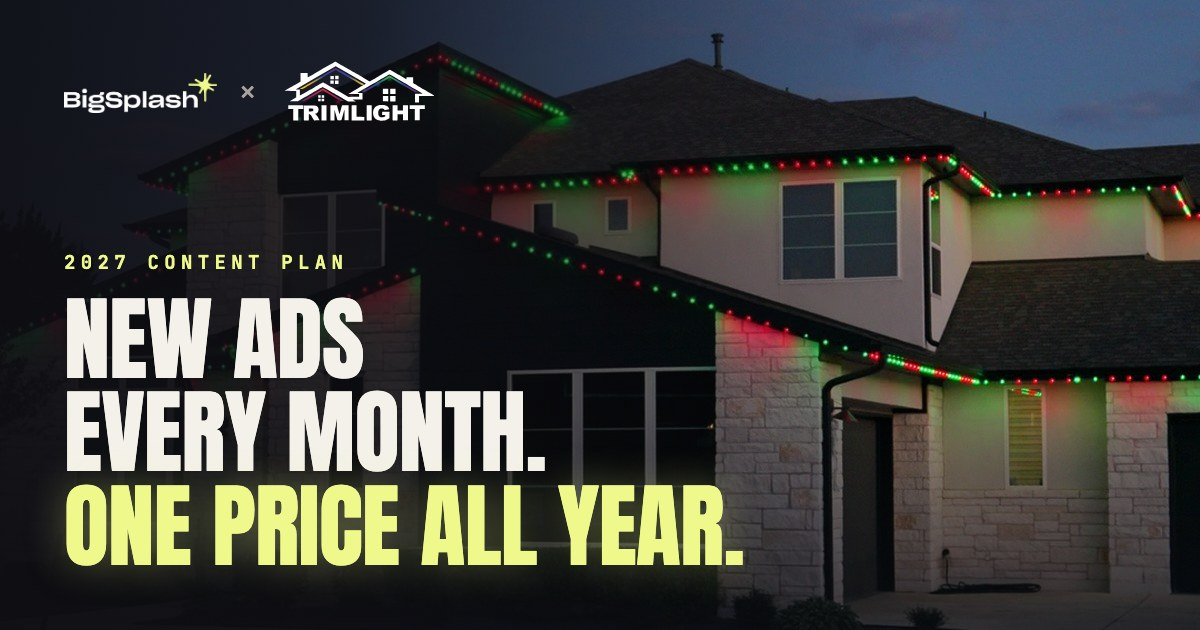
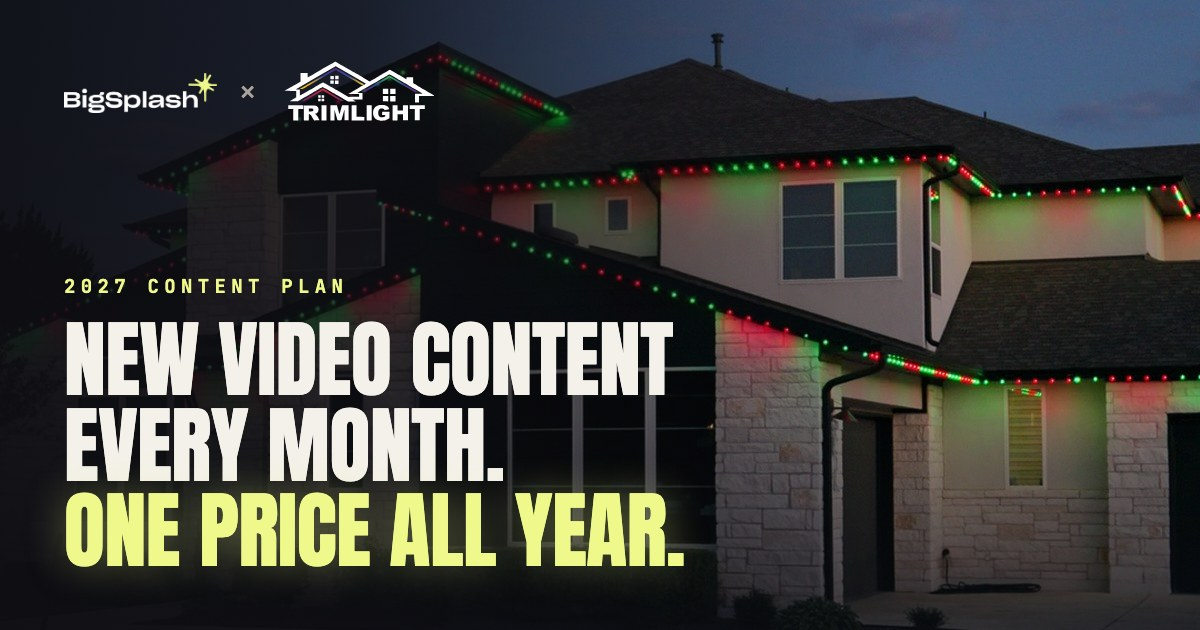
Trimlight page: video content wording instead of ads

Changed region(s): [[0.0308, 0.3921, 0.6167, 0.9048]]

diff --git a/trimlight2027/index.html b/trimlight2027/index.html
@@ -7,7 +7,7 @@
 <meta name="robots" content="noindex,nofollow">
 <meta name="description" content="A filming day every month at one locked price for 12 months. Built for Tina and Trimlight.">
 <meta property="og:title" content="Trimlight × Big Splash · 2027 Content Plan">
-<meta property="og:description" content="A filming day every month. One locked price for 12 months.">
+<meta property="og:description" content="New video content every month. One locked price for 12 months.">
 <meta property="og:image" content="https://bigsplash.video/trimlight2027/assets/link-preview.jpg">
 <meta property="og:image:width" content="1200">
 <meta property="og:image:height" content="630">
@@ -170,23 +170,23 @@ footer img{height:20px;opacity:.8}
   <div class="wrap split">
     <div>
       <p class="eyebrow">2027 content plan · Prepared for Tina</p>
-      <h1>New ads every month.<br><span class="lime glow">One price all year.</span></h1>
-      <p class="lede">Book one or two filming days a month and keep fresh video ads and posts coming for Trimlight, or for any of your other businesses. Your monthly rate stays locked for 12 months.</p>
+      <h1>New video content<br>every month.<br><span class="lime glow">One price all year.</span></h1>
+      <p class="lede">Book one or two filming days a month and keep fresh video content coming for Trimlight, or for any of your other businesses. Your monthly rate stays locked for 12 months.</p>
       <div class="cta">
         <a class="btn primary" href="#plans">Pick your plan</a>
-        <a class="btn ghost" href="#work">Watch the ads</a>
+        <a class="btn ghost" href="#work">Watch the videos</a>
       </div>
       <p class="offer">This offer is good through November 26, 2026</p>
     </div>
     <div class="phone">
-      <video src="assets/work/every-team-one-tap.mp4" poster="assets/work/every-team-one-tap.webp" autoplay muted loop playsinline preload="metadata" aria-label="Trimlight ad: every team, one tap"></video>
+      <video src="assets/work/every-team-one-tap.mp4" poster="assets/work/every-team-one-tap.webp" autoplay muted loop playsinline preload="metadata" aria-label="Trimlight video: every team, one tap"></video>
     </div>
   </div>
   <div class="wrap">
     <div class="facts">
       <div class="fact"><b>1</b><span>filming day on November 11</span></div>
-      <div class="fact"><b>19</b><span>video ads cut from that one day</span></div>
-      <div class="fact"><b>15</b><span>static ads from the same footage</span></div>
+      <div class="fact"><b>19</b><span>videos cut from that one day</span></div>
+      <div class="fact"><b>15</b><span>static posts from the same footage</span></div>
       <div class="fact"><b>12</b><span>months at the same monthly rate</span></div>
     </div>
   </div>
@@ -194,9 +194,9 @@ footer img{height:20px;opacity:.8}
 
 <section id="work" class="dimband">
   <div class="wrap">
-    <p class="eyebrow">Video ads</p>
-    <h2>One filming day.<br><span class="lime">19 video ads.</span></h2>
-    <p class="sub">Everything here came from the November 11 shoot at your house. Tap any ad to watch it with sound.</p>
+    <p class="eyebrow">Video content</p>
+    <h2>One filming day.<br><span class="lime">19 videos.</span></h2>
+    <p class="sub">Everything here came from the November 11 shoot at your house. Tap any video to watch it with sound.</p>
     <div class="reels">
       <button class="reel reveal" data-video="assets/work/how-to-hang-christmas-lights.mp4"><img src="assets/work/how-to-hang-christmas-lights.webp" alt="" loading="lazy" width="540" height="960"><span class="play"></span><span class="cap"><small>Comedy</small><strong>How to hang Christmas lights</strong></span></button>
       <button class="reel reveal" data-video="assets/work/only-santa.mp4"><img src="assets/work/only-santa.webp" alt="" loading="lazy" width="540" height="960"><span class="play"></span><span class="cap"><small>Comedy</small><strong>Only Santa belongs on your roof</strong></span></button>
@@ -212,18 +212,18 @@ footer img{height:20px;opacity:.8}
 
 <section id="statics">
   <div class="wrap">
-    <p class="eyebrow">Static ads and posts</p>
+    <p class="eyebrow">Static posts</p>
     <h2>Every shoot fills<br><span class="lime">the feed too.</span></h2>
-    <p class="sub">The same filming day also produced 15 static ads, each sized for the feed and for stories. Here are eight.</p>
+    <p class="sub">The same filming day also produced 15 static posts, each sized for the feed and for stories. Here are eight.</p>
     <div class="statics">
-      <button class="static reveal" data-img="assets/statics/christmas-lights-done.jpg"><img src="assets/statics/christmas-lights-done.jpg" alt="Static ad: Christmas lights. Done." loading="lazy" width="864" height="1080"></button>
-      <button class="static reveal" data-img="assets/statics/leave-the-roof-to-santa.jpg"><img src="assets/statics/leave-the-roof-to-santa.jpg" alt="Static ad: Leave the roof to Santa." loading="lazy" width="864" height="1080"></button>
-      <button class="static reveal" data-img="assets/statics/retire-the-ladder.jpg"><img src="assets/statics/retire-the-ladder.jpg" alt="Static ad: Retire the ladder." loading="lazy" width="864" height="1080"></button>
-      <button class="static reveal" data-img="assets/statics/saturdays-in-burnt-orange.jpg"><img src="assets/statics/saturdays-in-burnt-orange.jpg" alt="Static ad: Saturdays in burnt orange." loading="lazy" width="864" height="1080"></button>
-      <button class="static reveal" data-img="assets/statics/sit-relax-tap.jpg"><img src="assets/statics/sit-relax-tap.jpg" alt="Static ad: Sit. Relax. Tap." loading="lazy" width="864" height="1080"></button>
-      <button class="static reveal" data-img="assets/statics/tote-season-is-over.jpg"><img src="assets/statics/tote-season-is-over.jpg" alt="Static ad: Tote season is over." loading="lazy" width="864" height="1080"></button>
-      <button class="static reveal" data-img="assets/statics/can-you-spot-them.jpg"><img src="assets/statics/can-you-spot-them.jpg" alt="Static ad: Can you spot them?" loading="lazy" width="864" height="1080"></button>
-      <button class="static reveal" data-img="assets/statics/one-app-every-holiday.jpg"><img src="assets/statics/one-app-every-holiday.jpg" alt="Static ad: One app. Every holiday." loading="lazy" width="864" height="1080"></button>
+      <button class="static reveal" data-img="assets/statics/christmas-lights-done.jpg"><img src="assets/statics/christmas-lights-done.jpg" alt="Static post: Christmas lights. Done." loading="lazy" width="864" height="1080"></button>
+      <button class="static reveal" data-img="assets/statics/leave-the-roof-to-santa.jpg"><img src="assets/statics/leave-the-roof-to-santa.jpg" alt="Static post: Leave the roof to Santa." loading="lazy" width="864" height="1080"></button>
+      <button class="static reveal" data-img="assets/statics/retire-the-ladder.jpg"><img src="assets/statics/retire-the-ladder.jpg" alt="Static post: Retire the ladder." loading="lazy" width="864" height="1080"></button>
+      <button class="static reveal" data-img="assets/statics/saturdays-in-burnt-orange.jpg"><img src="assets/statics/saturdays-in-burnt-orange.jpg" alt="Static post: Saturdays in burnt orange." loading="lazy" width="864" height="1080"></button>
+      <button class="static reveal" data-img="assets/statics/sit-relax-tap.jpg"><img src="assets/statics/sit-relax-tap.jpg" alt="Static post: Sit. Relax. Tap." loading="lazy" width="864" height="1080"></button>
+      <button class="static reveal" data-img="assets/statics/tote-season-is-over.jpg"><img src="assets/statics/tote-season-is-over.jpg" alt="Static post: Tote season is over." loading="lazy" width="864" height="1080"></button>
+      <button class="static reveal" data-img="assets/statics/can-you-spot-them.jpg"><img src="assets/statics/can-you-spot-them.jpg" alt="Static post: Can you spot them?" loading="lazy" width="864" height="1080"></button>
+      <button class="static reveal" data-img="assets/statics/one-app-every-holiday.jpg"><img src="assets/statics/one-app-every-holiday.jpg" alt="Static post: One app. Every holiday." loading="lazy" width="864" height="1080"></button>
     </div>
   </div>
 </section>
@@ -240,7 +240,7 @@ footer img{height:20px;opacity:.8}
         <div class="price"><b>$1,250</b><span>per month</span></div>
         <ul>
           <li>12 filming days across the year</li>
-          <li>Edited video ads and static posts from every shoot</li>
+          <li>Edited videos and static posts from every shoot</li>
           <li>Use each day for Trimlight or any of your businesses</li>
           <li>Rate locked for 12 months</li>
         </ul>
@@ -253,7 +253,7 @@ footer img{height:20px;opacity:.8}
         <ul>
           <li>24 filming days across the year</li>
           <li>The second day costs $1,000, which saves you $250 every month</li>
-          <li>Edited video ads and static posts from every shoot</li>
+          <li>Edited videos and static posts from every shoot</li>
           <li>Split the days across your businesses any way you like</li>
           <li>Rate locked for 12 months</li>
         </ul>
@@ -276,10 +276,10 @@ footer img{height:20px;opacity:.8}
     <p class="eyebrow">Each month</p>
     <h2>One filming day,<br><span class="lime">a month of content.</span></h2>
     <div class="steps">
-      <div class="step reveal"><b>Plan</b><span>You choose the business and the goal. Chris brings the ad ideas.</span></div>
+      <div class="step reveal"><b>Plan</b><span>You choose the business and the goal. Chris brings the video ideas.</span></div>
       <div class="step reveal"><b>Film</b><span>Chris films on location with you, your crew or your customers.</span></div>
-      <div class="step reveal"><b>Edit</b><span>Big Splash cuts the footage into vertical video ads and static posts.</span></div>
-      <div class="step reveal"><b>Post</b><span>You get finished files, ready for Instagram, Facebook and paid ads.</span></div>
+      <div class="step reveal"><b>Edit</b><span>Big Splash cuts the footage into vertical videos and static posts.</span></div>
+      <div class="step reveal"><b>Post</b><span>You get finished files, ready to post on Instagram and Facebook.</span></div>
     </div>
   </div>
 </section>
